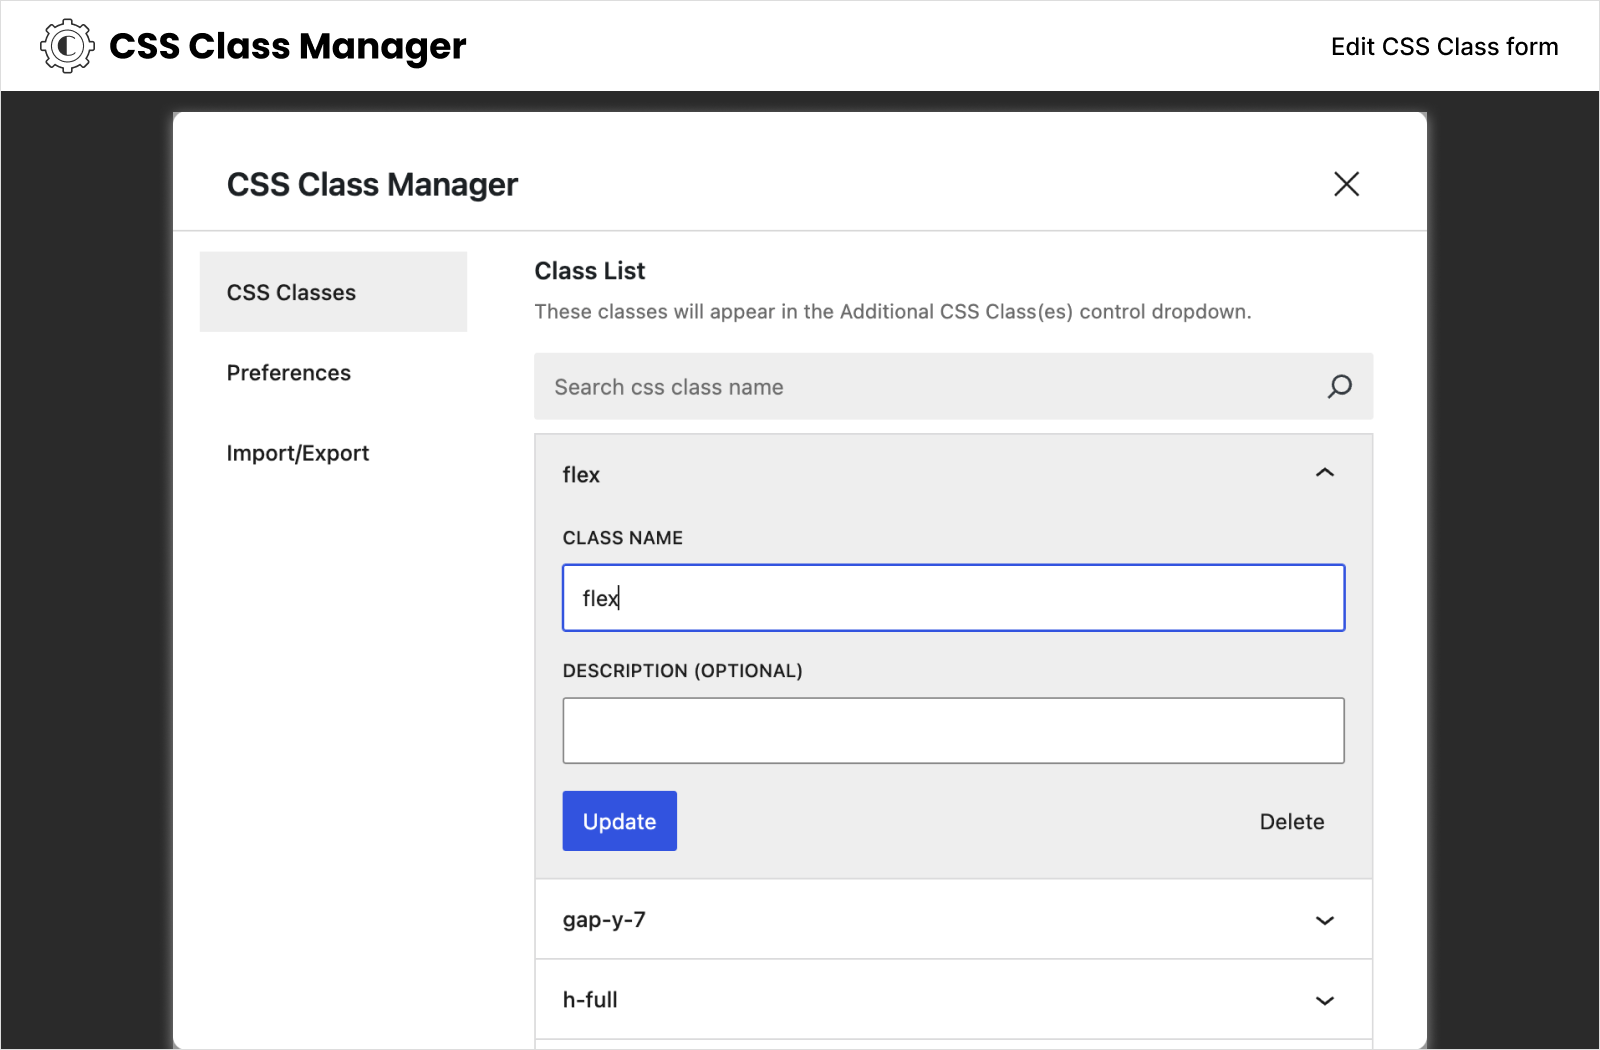
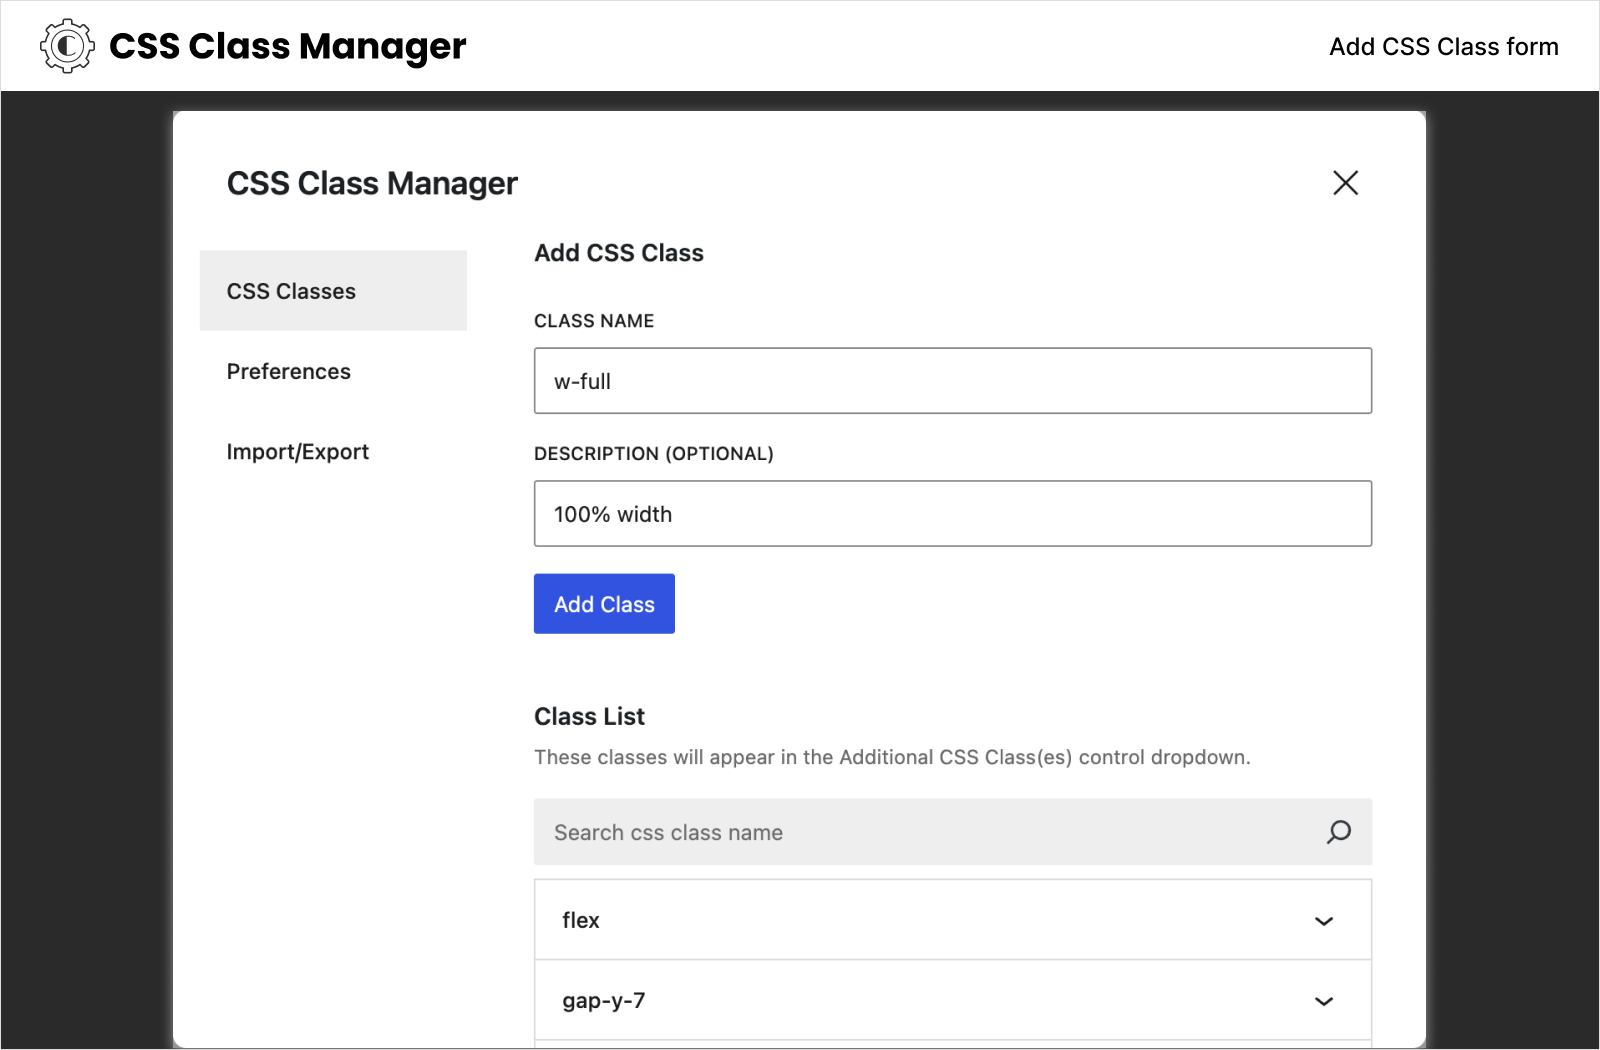
Add inline css feature screenshots

diff --git a/README.md b/README.md
@@ -43,20 +43,23 @@ There are two main motivations behind creating this plugins:
 3. Add body classes to your posts, pages or custom post types with the Body Classes control located in the Post Tab in the post editor.
 	![Body classes control](.wp-org/screenshot-3.png)
 
-4. Fuzzy searching with fuse.js.
+4. Add inline classes to the selected text from the text formatting tools options.
 	![Fuzzy searching](.wp-org/screenshot-4.png)
 
-5. You can add your CSS classes and their descriptions in the CSS Class Manager modal.
-	![Add CSS classes](.wp-org/screenshot-5.png)
+5. Fuzzy searching with fuse.js.
+	![Fuzzy searching](.wp-org/screenshot-5.png)
 
-6. Edit your CSS classes and their descriptions in the CSS Class Manager modal.
-	![Edit CSS classes](.wp-org/screenshot-6.png)
+6. You can add your CSS classes and their descriptions in the CSS Class Manager modal.
+	![Add CSS classes](.wp-org/screenshot-6.png)
 
-7. User-specific settings for the plugin.
-	![User settings](.wp-org/screenshot-7.png)
+7. Edit your CSS classes and their descriptions in the CSS Class Manager modal.
+	![Edit CSS classes](.wp-org/screenshot-7.png)
 
-8. Import or export your classes right from the manager modal.
-	![Import/Export](.wp-org/screenshot-8.png)
+8. User-specific settings for the plugin.
+	![User settings](.wp-org/screenshot-8.png)
+
+9. Import or export your classes right from the manager modal.
+	![Import/Export](.wp-org/screenshot-9.png)
 
 ## Frequently Asked Questions
 
